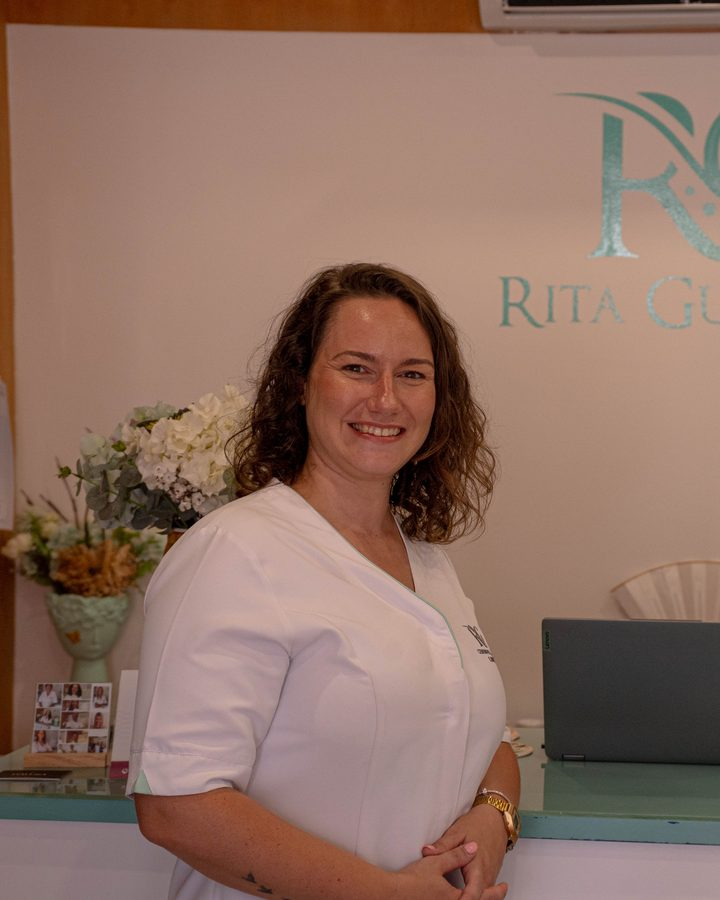
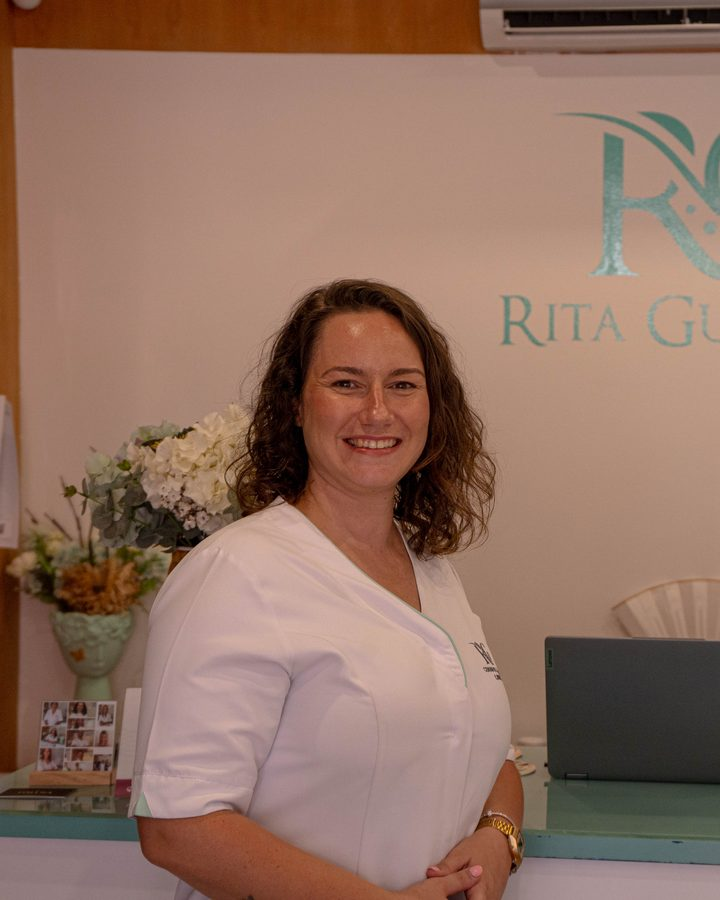
fix(equipa): nova foto da Mafalda Santos
Substitui a foto da Mafalda pela versao nova enviada pela clinica
(recorte 4:5 centrado nela). ?v na src e bump tokens ?v=20260720x para
forcar refresh da imagem em cache.

Changed region(s): [[0.0, 0.0, 1.0, 1.0], [0.6722, 0.0933, 1.0, 0.4044], [0.4889, 0.7467, 0.5194, 0.7778]]

diff --git a/website-clinica-rita-guerreiro/project/src/tokens.jsx b/website-clinica-rita-guerreiro/project/src/tokens.jsx
@@ -294,7 +294,7 @@ const TRANSLATIONS = {
         { name: 'Inês Almeida', role: 'Terapeuta de Bem-Estar', bio: 'Auxiliar de fisioterapia há 12 anos, especialista em Massagem Terapêutica e Sacro-craniana e nas propriedades dos óleos essenciais.', src: 'assets/fotos/profissional-2.jpg',
           bio_long: ['Auxiliar de fisioterapia com 12 anos de experiência, a Inês Almeida é especialista em Massagem Terapêutica e Massagem Sacro-craniana.', 'Dedica-se ao acompanhamento personalizado de cada paciente, com particular interesse na aplicação de óleos essenciais e nas suas propriedades terapêuticas. A sua prática assenta no cuidado atento e no compromisso com o bem-estar físico e emocional de quem acompanha.'],
           services: [{ label: 'Massagem Terapêutica', href: '/servico/massagem-terapeutica' }, { label: 'Massagem Sacro-craniana', href: '/servico/massagem-sacro-craniana' }] },
-        { name: 'Mafalda Santos', role: 'Terapeuta de Bem-Estar', bio: 'Terapeuta de bem-estar com formação em Head Spa Japonês e Lifting Japonês. O cuidado e o sorriso são a sua imagem de marca.', src: 'assets/fotos/mafalda-santos.jpg',
+        { name: 'Mafalda Santos', role: 'Terapeuta de Bem-Estar', bio: 'Terapeuta de bem-estar com formação em Head Spa Japonês e Lifting Japonês. O cuidado e o sorriso são a sua imagem de marca.', src: 'assets/fotos/mafalda-santos.jpg?v=20260720b',
           bio_long: ['Terapeuta de bem-estar do Centro de Terapias, a Mafalda Santos tem formação em Head Spa Japonês e Lifting Japonês e dedica-se a cuidar de cada pessoa com atenção e proximidade.', 'Realiza Drenagem Linfática Manual, Drenagem Pós-cirúrgica, massagem de relaxamento e massagem modeladora. Mãe de três, leva para o trabalho a mesma energia e o sorriso que são a sua imagem de marca.'],
           services: [{ label: 'Head Spa', href: '/servico/head-spa' }, { label: 'Drenagem Linfática Manual', href: '/servico/drenagem-linfatica-manual' }, { label: 'Massagem de Relaxamento', href: '/servico/massagem-relaxamento' }] },
         { name: 'Cristina Tengarrinha', role: 'Medicina Tradicional Chinesa', bio: 'Terapeuta de Medicina Tradicional Chinesa, Acupuntura e Fitoterapia, com formação em Shiatsu e Reflexologia.', src: 'assets/fotos/profissional-3.jpg',
@@ -628,7 +628,7 @@ const TRANSLATIONS = {
         { name: 'Inês Almeida', role: 'Well-Being Therapist', bio: 'Physiotherapy assistant for 12 years, specialised in Therapeutic and Craniosacral Massage and the properties of essential oils.', src: 'assets/fotos/profissional-2.jpg',
           bio_long: ['A physiotherapy assistant with 12 years of experience, Inês Almeida specialises in Therapeutic Massage and Craniosacral Massage.', 'She is dedicated to the personalised care of each patient, with a particular interest in the use of essential oils and their therapeutic properties. Her practice is built on attentive care and a commitment to the physical and emotional well-being of those she treats.'],
           services: [{ label: 'Therapeutic Massage', href: '/servico/massagem-terapeutica' }, { label: 'Craniosacral Massage', href: '/servico/massagem-sacro-craniana' }] },
-        { name: 'Mafalda Santos', role: 'Well-Being Therapist', bio: 'Well-being therapist trained in Japanese Head Spa and Japanese Lifting. Care and a smile are her signature.', src: 'assets/fotos/mafalda-santos.jpg',
+        { name: 'Mafalda Santos', role: 'Well-Being Therapist', bio: 'Well-being therapist trained in Japanese Head Spa and Japanese Lifting. Care and a smile are her signature.', src: 'assets/fotos/mafalda-santos.jpg?v=20260720b',
           bio_long: ['A well-being therapist at the Centro de Terapias, Mafalda Santos is trained in Japanese Head Spa and Japanese Lifting and is devoted to caring for each person with attention and warmth.', 'She provides Manual Lymphatic Drainage, post-surgical drainage, relaxation massage and modelling massage. A mother of three, she brings to work the same energy and smile that are her signature.'],
           services: [{ label: 'Head Spa', href: '/servico/head-spa' }, { label: 'Manual Lymphatic Drainage', href: '/servico/drenagem-linfatica-manual' }, { label: 'Relaxation Massage', href: '/servico/massagem-relaxamento' }] },
         { name: 'Cristina Tengarrinha', role: 'Traditional Chinese Medicine', bio: 'Therapist in Traditional Chinese Medicine, Acupuncture and Phytotherapy, with training in Shiatsu and Reflexology.', src: 'assets/fotos/profissional-3.jpg',
@@ -979,7 +979,7 @@ const TRANSLATIONS = {
         { name: 'Inês Almeida', role: 'Thérapeute Bien-Être', bio: 'Auxiliaire de physiothérapie depuis 12 ans, spécialisée en massage thérapeutique et crânio-sacré et dans les propriétés des huiles essentielles.', src: 'assets/fotos/profissional-2.jpg',
           bio_long: ['Auxiliaire de physiothérapie avec 12 ans d’expérience, Inês Almeida est spécialisée en massage thérapeutique et en massage crânio-sacré.', 'Elle se consacre à un accompagnement personnalisé de chaque patient, avec un intérêt particulier pour l’usage des huiles essentielles et leurs propriétés thérapeutiques. Sa pratique repose sur un soin attentif et un engagement envers le bien-être physique et émotionnel des personnes qu’elle accompagne.'],
           services: [{ label: 'Massage thérapeutique', href: '/servico/massagem-terapeutica' }, { label: 'Massage crânio-sacré', href: '/servico/massagem-sacro-craniana' }] },
-        { name: 'Mafalda Santos', role: 'Thérapeute Bien-Être', bio: 'Thérapeute bien-être formée au Head Spa japonais et au Lifting japonais. Le soin et le sourire sont sa marque de fabrique.', src: 'assets/fotos/mafalda-santos.jpg',
+        { name: 'Mafalda Santos', role: 'Thérapeute Bien-Être', bio: 'Thérapeute bien-être formée au Head Spa japonais et au Lifting japonais. Le soin et le sourire sont sa marque de fabrique.', src: 'assets/fotos/mafalda-santos.jpg?v=20260720b',
           bio_long: ['Thérapeute bien-être du Centro de Terapias, Mafalda Santos est formée au Head Spa japonais et au Lifting japonais et se consacre à prendre soin de chaque personne avec attention et proximité.', 'Elle pratique le drainage lymphatique manuel, le drainage post-chirurgical, le massage relaxant et le massage modelant. Mère de trois enfants, elle apporte au travail la même énergie et le même sourire qui sont sa marque de fabrique.'],
           services: [{ label: 'Head Spa', href: '/servico/head-spa' }, { label: 'Drainage lymphatique manuel', href: '/servico/drenagem-linfatica-manual' }, { label: 'Massage relaxant', href: '/servico/massagem-relaxamento' }] },
         { name: 'Cristina Tengarrinha', role: 'Médecine traditionnelle chinoise', bio: 'Thérapeute en médecine traditionnelle chinoise, acupuncture et phytothérapie, avec une formation en shiatsu et réflexologie.', src: 'assets/fotos/profissional-3.jpg',
@@ -1330,7 +1330,7 @@ const TRANSLATIONS = {
         { name: 'Inês Almeida', role: 'Terapeuta de Bienestar', bio: 'Auxiliar de fisioterapia desde hace 12 años, especialista en masaje terapéutico y sacrocraneal y en las propiedades de los aceites esenciales.', src: 'assets/fotos/profissional-2.jpg',
           bio_long: ['Auxiliar de fisioterapia con 12 años de experiencia, Inês Almeida es especialista en masaje terapéutico y masaje sacrocraneal.', 'Se dedica al acompañamiento personalizado de cada paciente, con especial interés en la aplicación de aceites esenciales y sus propiedades terapéuticas. Su práctica se basa en el cuidado atento y en el compromiso con el bienestar físico y emocional de quienes acompaña.'],
           services: [{ label: 'Masaje terapéutico', href: '/servico/massagem-terapeutica' }, { label: 'Masaje sacrocraneal', href: '/servico/massagem-sacro-craniana' }] },
-        { name: 'Mafalda Santos', role: 'Terapeuta de Bienestar', bio: 'Terapeuta de bienestar con formación en Head Spa Japonés y Lifting Japonés. El cuidado y la sonrisa son su sello.', src: 'assets/fotos/mafalda-santos.jpg',
+        { name: 'Mafalda Santos', role: 'Terapeuta de Bienestar', bio: 'Terapeuta de bienestar con formación en Head Spa Japonés y Lifting Japonés. El cuidado y la sonrisa son su sello.', src: 'assets/fotos/mafalda-santos.jpg?v=20260720b',
           bio_long: ['Terapeuta de bienestar del Centro de Terapias, Mafalda Santos tiene formación en Head Spa Japonés y Lifting Japonés y se dedica a cuidar de cada persona con atención y cercanía.', 'Realiza Drenaje Linfático Manual, drenaje posquirúrgico, masaje de relajación y masaje modelador. Madre de tres, lleva al trabajo la misma energía y la sonrisa que son su sello.'],
           services: [{ label: 'Head Spa', href: '/servico/head-spa' }, { label: 'Drenaje Linfático Manual', href: '/servico/drenagem-linfatica-manual' }, { label: 'Masaje de Relajación', href: '/servico/massagem-relaxamento' }] },
         { name: 'Cristina Tengarrinha', role: 'Medicina Tradicional China', bio: 'Terapeuta de Medicina Tradicional China, Acupuntura y Fitoterapia, con formación en Shiatsu y Reflexología.', src: 'assets/fotos/profissional-3.jpg',

diff --git a/website-clinica-rita-guerreiro/project/contactos.html b/website-clinica-rita-guerreiro/project/contactos.html
@@ -27,7 +27,7 @@
 <script src="https://unpkg.com/react@18.3.1/umd/react.development.js" integrity="sha384-hD6/rw4ppMLGNu3tX5cjIb+uRZ7UkRJ6BPkLpg4hAu/6onKUg4lLsHAs9EBPT82L" crossorigin="anonymous"></script>
 <script src="https://unpkg.com/react-dom@18.3.1/umd/react-dom.development.js" integrity="sha384-u6aeetuaXnQ38mYT8rp6sbXaQe3NL9t+IBXmnYxwkUI2Hw4bsp2Wvmx4yRQF1uAm" crossorigin="anonymous"></script>
 <script src="https://unpkg.com/@babel/standalone@7.29.0/babel.min.js" integrity="sha384-m08KidiNqLdpJqLq95G/LEi8Qvjl/xUYll3QILypMoQ65QorJ9Lvtp2RXYGBFj1y" crossorigin="anonymous"></script>
-<script type="text/babel" src="/src/tokens.jsx?v=20260720w"></script>
+<script type="text/babel" src="/src/tokens.jsx?v=20260720x"></script>
 <script type="text/babel" src="/src/logo.jsx?v=20260713b"></script>
 <script type="text/babel" src="/src/data.jsx?v=20260720w"></script>
 <script type="text/babel" src="/src/data_i18n.jsx?v=20260720t"></script>

diff --git a/website-clinica-rita-guerreiro/project/index.html b/website-clinica-rita-guerreiro/project/index.html
@@ -71,7 +71,7 @@
 <script src="https://unpkg.com/react@18.3.1/umd/react.development.js" integrity="sha384-hD6/rw4ppMLGNu3tX5cjIb+uRZ7UkRJ6BPkLpg4hAu/6onKUg4lLsHAs9EBPT82L" crossorigin="anonymous"></script>
 <script src="https://unpkg.com/react-dom@18.3.1/umd/react-dom.development.js" integrity="sha384-u6aeetuaXnQ38mYT8rp6sbXaQe3NL9t+IBXmnYxwkUI2Hw4bsp2Wvmx4yRQF1uAm" crossorigin="anonymous"></script>
 <script src="https://unpkg.com/@babel/standalone@7.29.0/babel.min.js" integrity="sha384-m08KidiNqLdpJqLq95G/LEi8Qvjl/xUYll3QILypMoQ65QorJ9Lvtp2RXYGBFj1y" crossorigin="anonymous"></script>
-<script type="text/babel" src="/src/tokens.jsx?v=20260720w"></script>
+<script type="text/babel" src="/src/tokens.jsx?v=20260720x"></script>
 <script type="text/babel" src="/src/logo.jsx?v=20260713b"></script>
 <script type="text/babel" src="/src/data.jsx?v=20260720w"></script>
 <script type="text/babel" src="/src/data_i18n.jsx?v=20260720t"></script>

diff --git a/website-clinica-rita-guerreiro/project/privacidade.html b/website-clinica-rita-guerreiro/project/privacidade.html
@@ -29,7 +29,7 @@
 <script src="https://unpkg.com/react@18.3.1/umd/react.development.js" integrity="sha384-hD6/rw4ppMLGNu3tX5cjIb+uRZ7UkRJ6BPkLpg4hAu/6onKUg4lLsHAs9EBPT82L" crossorigin="anonymous"></script>
 <script src="https://unpkg.com/react-dom@18.3.1/umd/react-dom.development.js" integrity="sha384-u6aeetuaXnQ38mYT8rp6sbXaQe3NL9t+IBXmnYxwkUI2Hw4bsp2Wvmx4yRQF1uAm" crossorigin="anonymous"></script>
 <script src="https://unpkg.com/@babel/standalone@7.29.0/babel.min.js" integrity="sha384-m08KidiNqLdpJqLq95G/LEi8Qvjl/xUYll3QILypMoQ65QorJ9Lvtp2RXYGBFj1y" crossorigin="anonymous"></script>
-<script type="text/babel" src="/src/tokens.jsx?v=20260720w"></script>
+<script type="text/babel" src="/src/tokens.jsx?v=20260720x"></script>
 <script type="text/babel" src="/src/logo.jsx?v=20260713b"></script>
 <script type="text/babel" src="/src/data.jsx?v=20260720w"></script>
 <script type="text/babel" src="/src/data_i18n.jsx?v=20260720t"></script>

diff --git a/website-clinica-rita-guerreiro/project/servico-acupuntura.html b/website-clinica-rita-guerreiro/project/servico-acupuntura.html
@@ -27,7 +27,7 @@
 <script src="https://unpkg.com/react@18.3.1/umd/react.development.js" integrity="sha384-hD6/rw4ppMLGNu3tX5cjIb+uRZ7UkRJ6BPkLpg4hAu/6onKUg4lLsHAs9EBPT82L" crossorigin="anonymous"></script>
 <script src="https://unpkg.com/react-dom@18.3.1/umd/react-dom.development.js" integrity="sha384-u6aeetuaXnQ38mYT8rp6sbXaQe3NL9t+IBXmnYxwkUI2Hw4bsp2Wvmx4yRQF1uAm" crossorigin="anonymous"></script>
 <script src="https://unpkg.com/@babel/standalone@7.29.0/babel.min.js" integrity="sha384-m08KidiNqLdpJqLq95G/LEi8Qvjl/xUYll3QILypMoQ65QorJ9Lvtp2RXYGBFj1y" crossorigin="anonymous"></script>
-<script type="text/babel" src="/src/tokens.jsx?v=20260720w"></script>
+<script type="text/babel" src="/src/tokens.jsx?v=20260720x"></script>
 <script type="text/babel" src="/src/logo.jsx?v=20260713b"></script>
 <script type="text/babel" src="/src/data.jsx?v=20260720w"></script>
 <script type="text/babel" src="/src/data_i18n.jsx?v=20260720t"></script>

diff --git a/website-clinica-rita-guerreiro/project/servico-depilacao-laser.html b/website-clinica-rita-guerreiro/project/servico-depilacao-laser.html
@@ -27,7 +27,7 @@
 <script src="https://unpkg.com/react@18.3.1/umd/react.development.js" integrity="sha384-hD6/rw4ppMLGNu3tX5cjIb+uRZ7UkRJ6BPkLpg4hAu/6onKUg4lLsHAs9EBPT82L" crossorigin="anonymous"></script>
 <script src="https://unpkg.com/react-dom@18.3.1/umd/react-dom.development.js" integrity="sha384-u6aeetuaXnQ38mYT8rp6sbXaQe3NL9t+IBXmnYxwkUI2Hw4bsp2Wvmx4yRQF1uAm" crossorigin="anonymous"></script>
 <script src="https://unpkg.com/@babel/standalone@7.29.0/babel.min.js" integrity="sha384-m08KidiNqLdpJqLq95G/LEi8Qvjl/xUYll3QILypMoQ65QorJ9Lvtp2RXYGBFj1y" crossorigin="anonymous"></script>
-<script type="text/babel" src="/src/tokens.jsx?v=20260720w"></script>
+<script type="text/babel" src="/src/tokens.jsx?v=20260720x"></script>
 <script type="text/babel" src="/src/logo.jsx?v=20260713b"></script>
 <script type="text/babel" src="/src/data.jsx?v=20260720w"></script>
 <script type="text/babel" src="/src/data_i18n.jsx?v=20260720t"></script>

diff --git a/website-clinica-rita-guerreiro/project/servico-drenagem-linfatica-manual.html b/website-clinica-rita-guerreiro/project/servico-drenagem-linfatica-manual.html
@@ -27,7 +27,7 @@
 <script src="https://unpkg.com/react@18.3.1/umd/react.development.js" integrity="sha384-hD6/rw4ppMLGNu3tX5cjIb+uRZ7UkRJ6BPkLpg4hAu/6onKUg4lLsHAs9EBPT82L" crossorigin="anonymous"></script>
 <script src="https://unpkg.com/react-dom@18.3.1/umd/react-dom.development.js" integrity="sha384-u6aeetuaXnQ38mYT8rp6sbXaQe3NL9t+IBXmnYxwkUI2Hw4bsp2Wvmx4yRQF1uAm" crossorigin="anonymous"></script>
 <script src="https://unpkg.com/@babel/standalone@7.29.0/babel.min.js" integrity="sha384-m08KidiNqLdpJqLq95G/LEi8Qvjl/xUYll3QILypMoQ65QorJ9Lvtp2RXYGBFj1y" crossorigin="anonymous"></script>
-<script type="text/babel" src="/src/tokens.jsx?v=20260720w"></script>
+<script type="text/babel" src="/src/tokens.jsx?v=20260720x"></script>
 <script type="text/babel" src="/src/logo.jsx?v=20260713b"></script>
 <script type="text/babel" src="/src/data.jsx?v=20260720w"></script>
 <script type="text/babel" src="/src/data_i18n.jsx?v=20260720t"></script>

diff --git a/website-clinica-rita-guerreiro/project/servico-drenagem-linfatica.html b/website-clinica-rita-guerreiro/project/servico-drenagem-linfatica.html
@@ -27,7 +27,7 @@
 <script src="https://unpkg.com/react@18.3.1/umd/react.development.js" integrity="sha384-hD6/rw4ppMLGNu3tX5cjIb+uRZ7UkRJ6BPkLpg4hAu/6onKUg4lLsHAs9EBPT82L" crossorigin="anonymous"></script>
 <script src="https://unpkg.com/react-dom@18.3.1/umd/react-dom.development.js" integrity="sha384-u6aeetuaXnQ38mYT8rp6sbXaQe3NL9t+IBXmnYxwkUI2Hw4bsp2Wvmx4yRQF1uAm" crossorigin="anonymous"></script>
 <script src="https://unpkg.com/@babel/standalone@7.29.0/babel.min.js" integrity="sha384-m08KidiNqLdpJqLq95G/LEi8Qvjl/xUYll3QILypMoQ65QorJ9Lvtp2RXYGBFj1y" crossorigin="anonymous"></script>
-<script type="text/babel" src="/src/tokens.jsx?v=20260720w"></script>
+<script type="text/babel" src="/src/tokens.jsx?v=20260720x"></script>
 <script type="text/babel" src="/src/logo.jsx?v=20260713b"></script>
 <script type="text/babel" src="/src/data.jsx?v=20260720w"></script>
 <script type="text/babel" src="/src/data_i18n.jsx?v=20260720t"></script>

diff --git a/website-clinica-rita-guerreiro/project/servico-estetica.html b/website-clinica-rita-guerreiro/project/servico-estetica.html
@@ -27,7 +27,7 @@
 <script src="https://unpkg.com/react@18.3.1/umd/react.development.js" integrity="sha384-hD6/rw4ppMLGNu3tX5cjIb+uRZ7UkRJ6BPkLpg4hAu/6onKUg4lLsHAs9EBPT82L" crossorigin="anonymous"></script>
 <script src="https://unpkg.com/react-dom@18.3.1/umd/react-dom.development.js" integrity="sha384-u6aeetuaXnQ38mYT8rp6sbXaQe3NL9t+IBXmnYxwkUI2Hw4bsp2Wvmx4yRQF1uAm" crossorigin="anonymous"></script>
 <script src="https://unpkg.com/@babel/standalone@7.29.0/babel.min.js" integrity="sha384-m08KidiNqLdpJqLq95G/LEi8Qvjl/xUYll3QILypMoQ65QorJ9Lvtp2RXYGBFj1y" crossorigin="anonymous"></script>
-<script type="text/babel" src="/src/tokens.jsx?v=20260720w"></script>
+<script type="text/babel" src="/src/tokens.jsx?v=20260720x"></script>
 <script type="text/babel" src="/src/logo.jsx?v=20260713b"></script>
 <script type="text/babel" src="/src/data.jsx?v=20260720w"></script>
 <script type="text/babel" src="/src/data_i18n.jsx?v=20260720t"></script>

diff --git a/website-clinica-rita-guerreiro/project/servico-facial.html b/website-clinica-rita-guerreiro/project/servico-facial.html
@@ -27,7 +27,7 @@
 <script src="https://unpkg.com/react@18.3.1/umd/react.development.js" integrity="sha384-hD6/rw4ppMLGNu3tX5cjIb+uRZ7UkRJ6BPkLpg4hAu/6onKUg4lLsHAs9EBPT82L" crossorigin="anonymous"></script>
 <script src="https://unpkg.com/react-dom@18.3.1/umd/react-dom.development.js" integrity="sha384-u6aeetuaXnQ38mYT8rp6sbXaQe3NL9t+IBXmnYxwkUI2Hw4bsp2Wvmx4yRQF1uAm" crossorigin="anonymous"></script>
 <script src="https://unpkg.com/@babel/standalone@7.29.0/babel.min.js" integrity="sha384-m08KidiNqLdpJqLq95G/LEi8Qvjl/xUYll3QILypMoQ65QorJ9Lvtp2RXYGBFj1y" crossorigin="anonymous"></script>
-<script type="text/babel" src="/src/tokens.jsx?v=20260720w"></script>
+<script type="text/babel" src="/src/tokens.jsx?v=20260720x"></script>
 <script type="text/babel" src="/src/logo.jsx?v=20260713b"></script>
 <script type="text/babel" src="/src/data.jsx?v=20260720w"></script>
 <script type="text/babel" src="/src/data_i18n.jsx?v=20260720t"></script>

diff --git a/website-clinica-rita-guerreiro/project/servico-fisioterapia-atm.html b/website-clinica-rita-guerreiro/project/servico-fisioterapia-atm.html
@@ -27,7 +27,7 @@
 <script src="https://unpkg.com/react@18.3.1/umd/react.development.js" integrity="sha384-hD6/rw4ppMLGNu3tX5cjIb+uRZ7UkRJ6BPkLpg4hAu/6onKUg4lLsHAs9EBPT82L" crossorigin="anonymous"></script>
 <script src="https://unpkg.com/react-dom@18.3.1/umd/react-dom.development.js" integrity="sha384-u6aeetuaXnQ38mYT8rp6sbXaQe3NL9t+IBXmnYxwkUI2Hw4bsp2Wvmx4yRQF1uAm" crossorigin="anonymous"></script>
 <script src="https://unpkg.com/@babel/standalone@7.29.0/babel.min.js" integrity="sha384-m08KidiNqLdpJqLq95G/LEi8Qvjl/xUYll3QILypMoQ65QorJ9Lvtp2RXYGBFj1y" crossorigin="anonymous"></script>
-<script type="text/babel" src="/src/tokens.jsx?v=20260720w"></script>
+<script type="text/babel" src="/src/tokens.jsx?v=20260720x"></script>
 <script type="text/babel" src="/src/logo.jsx?v=20260713b"></script>
 <script type="text/babel" src="/src/data.jsx?v=20260720w"></script>
 <script type="text/babel" src="/src/data_i18n.jsx?v=20260720t"></script>

diff --git a/website-clinica-rita-guerreiro/project/servico-fisioterapia-geral.html b/website-clinica-rita-guerreiro/project/servico-fisioterapia-geral.html
@@ -27,7 +27,7 @@
 <script src="https://unpkg.com/react@18.3.1/umd/react.development.js" integrity="sha384-hD6/rw4ppMLGNu3tX5cjIb+uRZ7UkRJ6BPkLpg4hAu/6onKUg4lLsHAs9EBPT82L" crossorigin="anonymous"></script>
 <script src="https://unpkg.com/react-dom@18.3.1/umd/react-dom.development.js" integrity="sha384-u6aeetuaXnQ38mYT8rp6sbXaQe3NL9t+IBXmnYxwkUI2Hw4bsp2Wvmx4yRQF1uAm" crossorigin="anonymous"></script>
 <script src="https://unpkg.com/@babel/standalone@7.29.0/babel.min.js" integrity="sha384-m08KidiNqLdpJqLq95G/LEi8Qvjl/xUYll3QILypMoQ65QorJ9Lvtp2RXYGBFj1y" crossorigin="anonymous"></script>
-<script type="text/babel" src="/src/tokens.jsx?v=20260720w"></script>
+<script type="text/babel" src="/src/tokens.jsx?v=20260720x"></script>
 <script type="text/babel" src="/src/logo.jsx?v=20260713b"></script>
 <script type="text/babel" src="/src/data.jsx?v=20260720w"></script>
 <script type="text/babel" src="/src/data_i18n.jsx?v=20260720t"></script>
